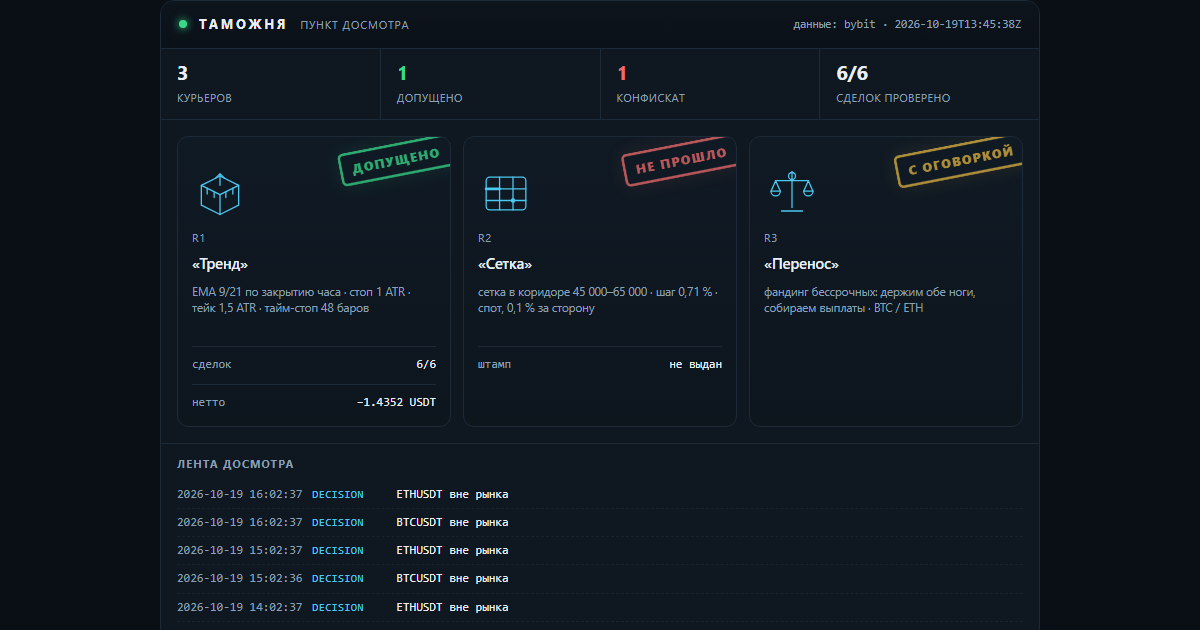
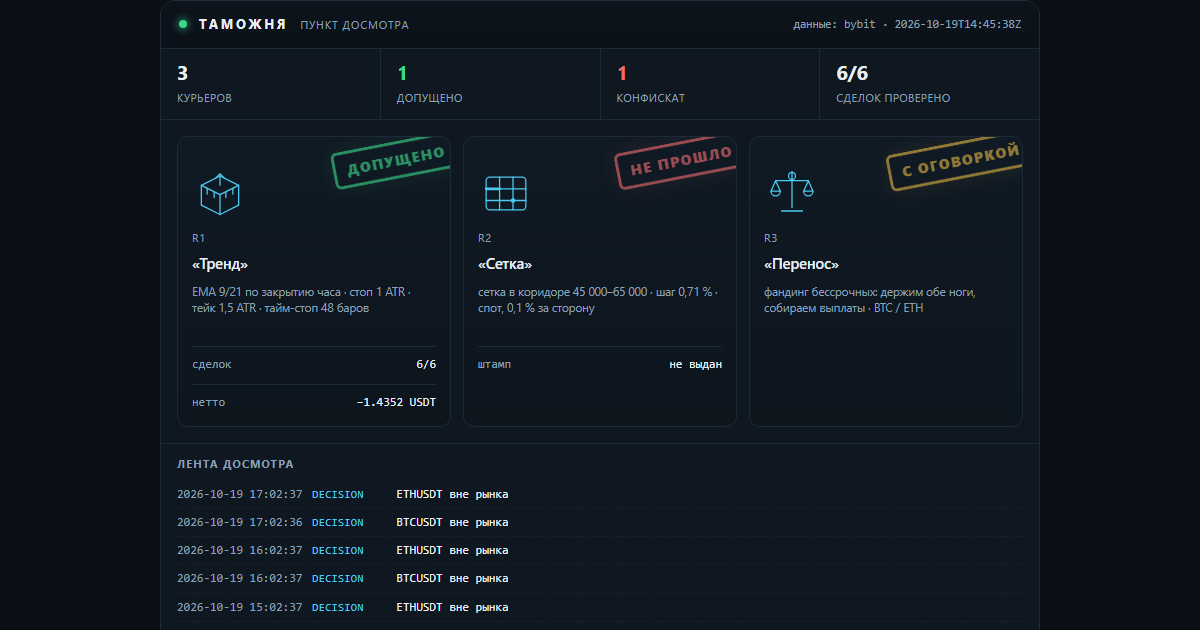
lab: таможня — свежие числа досмотра

Changed region(s): [[0.74, 0.2111, 0.8633, 0.3016], [0.4933, 0.2111, 0.6167, 0.3016], [0.2775, 0.2111, 0.37, 0.3016]]

diff --git a/docs/customs.html b/docs/customs.html
@@ -16,7 +16,7 @@
   <h1><a href="index.html">Gramwright Lab</a></h1>
   <p>Журнал проверки торговых гипотез: что проверяли, что вышло по факту, сколько съели издержки. Числа берутся из журнала стенда. Не инвестиционная рекомендация.</p>
 </header>
-<h1>Таможня</h1><p class="intro">Пункт досмотра заявленных результатов. Стратегии приезжают с грузом обещаний, и каждая проходит проверку по публичным данным биржи: цены существуют, комиссии по тарифу, нетто сходится. Что прошло — получает штамп. Что не прошло — в конфискат, с причиной. Штамп означает «записи подлинные», а не «стратегия прибыльна».</p><p><img src="img/customs.png" alt="Терминал досмотра: три курьера, штампы, лента событий" style="width:100%;height:auto;border:1px solid var(--line);border-radius:10px"></p><p class="c-note">Сверху — тот же терминал, что собирается из журналов: счётчики, эмблемы курьеров, штампы и лента последних событий. Ниже — то же самое текстом, чтобы читалось с телефона и индексировалось поиском.</p><article><h2>R1 «Тренд» <span class="verdict">— <span class="c-ok">допущено</span></span></h2><p><strong>Правило:</strong> EMA 9/21 по закрытию часа · стоп 1 ATR · тейк 1,5 ATR · тайм-стоп 48 баров</p><p><strong>Декларация:</strong> Заявлено до прогона: держать 30 сделок, лимит нотионала 10 % от счёта, стоп дня −1 %. Прибыль не заявлялась — это важно: курьер не обещал доход.</p><p><strong>Проверено по публичным свечам, без ключей:</strong> 6 из 6 сделок. Сумма нетто −1.4352 USDT.</p><ul class="c-chk"><li class="y">BTCUSDT: нетто −0.8746 USDT · комиссии 0.0901 · проверено · с поправкой</li><li class="y">BTCUSDT: нетто −0.5441 USDT · комиссии 0.0896 · проверено</li><li class="y">ETHUSDT: нетто −0.2253 USDT · комиссии 0.0266 · проверено</li><li class="y">ETHUSDT: нетто −0.1513 USDT · комиссии 0.0265 · проверено</li><li class="y">ETHUSDT: нетто +0.1984 USDT · комиссии 0.0262 · проверено</li><li class="y">ETHUSDT: нетто +0.1617 USDT · комиссии 0.0260 · проверено</li></ul><p class="tags">журнал sha256 cd0961a6c8a0f4fb… · проверяльщик verify-1</p><p class="c-note">Штамп означает: записи подлинные, а не что стратегия прибыльна. Курьер в минусе, и минус тоже стоит на штампе — иначе это была бы не проверка, а реклама.</p><p class="tags">источник: verify-report.json</p></article><article><h2>R2 «Сетка» <span class="verdict">— <span class="c-bad">не прошло</span></span></h2><p><strong>Правило:</strong> сетка в коридоре 45 000–65 000 · шаг 0,71 % · спот, 0,1 % за сторону</p><p><strong>Декларация:</strong> Заявлено: «44 % урожая уходит бирже в виде комиссий». Кроме того — перевес над простым владением монетой.</p><p><strong>Что сошлось:</strong></p><ul class="c-chk"><li class="y">сами числа пересчитаны и воспроизводятся: коридор 45–65k был активен 23 % всей истории и 28 % последних двух лет</li></ul><p><strong>Что не сошлось:</strong></p><ul class="c-chk"><li class="n">44 % не подтвердилось: при шаге 0,71 % и тарифе 0,1 % комиссия съедает 28,3 % шага. Чтобы получить 44 %, нужен шаг 0,45 % — это около 80 уровней, а не 50</li><li class="n">от урожая доля комиссий 85,5 % за всю историю и 49,6 % за последние два года — тоже не 44 %</li><li class="n">перевес над владением посчитан на тарифе 0,055 %: при нём +1,32 п. п., на розничном 0,1 % — −0,72 п. п. То есть перевес исчезает</li><li class="n">семилетний тест стартовал в сентябре 2019 при биткоине около 10 000 — ниже коридора. Он говорит, что фиксированный коридор не подходит для периода, а не что сетка отстаёт</li></ul><p class="tags">источник: lab_grid.py, пересчёт 17.10.2026</p></article><article><h2>R3 «Перенос» <span class="verdict">— <span class="c-warn">с оговоркой</span></span></h2><p><strong>Правило:</strong> фандинг бессрочных: держим обе ноги, собираем выплаты · BTC / ETH</p><p><strong>Декларация:</strong> Заявлено: около 11,9 % в год от выплат фандинга при просадке выплатной кривой меньше 2 %.</p><p><strong>Что сошлось:</strong></p><ul class="c-chk"><li class="y">выплаты взяты из публичной истории биржи, ключей не нужно: BTC — 7 190 выплат с 25.03.2020, ETH — 6 561 с 21.10.2020</li><li class="y">сумма сходится: +83,4 % и +83,2 % за 6,6 и 6,0 года — те самые ~11,9 % в год</li><li class="y">худшая просадка выплатной кривой: −1,65 % и −1,97 %</li></ul><p><strong>Что не сошлось:</strong></p><ul class="c-chk"><li class="n">оговорка 1: премию сжали — 2021 год дал +38,3 %, 2026 — +1,96 %. Прошлое не повторяется</li><li class="n">оговорка 2: вход-выход стоит около 0,31 %, капитала нужно 1,2 от нотионала, текущий базис −0,082 % против входа</li><li class="n">оговорка 3: риск площадки. История FTX в этой же таблице выглядела так же прилично</li></ul><p class="tags">источник: публичная история фандинга Bybit, замер 17.10.2026</p></article><div class="c-conf"><h3>Конфискат</h3><p><strong>«Сетка»: заявленные 44 % комиссий не подтвердились.</strong> Досмотр показал 28,3 % от шага и 85,5 % от урожая — цифра хуже заявленной по форме, но лучше по смыслу: сетку убивает не размер шага, а то, что урожай почти весь уходит в комиссии. Это и вышло в выпуск — с поправкой, а не с красивой цифрой.</p></div><p class="c-note">Пломба: <code>2026-10-19T13:45:38Z</code> · нотариус FreeTSA · Oct 19 13:45:38 2026 GMT · подпись подтверждена. Манифест скрепляет отчёт проверки, журнал сделок и декларации курьеров: подменишь любую цифру — пломба перестанет сходиться.</p><p class="c-note">Досмотр идёт по публичным минутным свечам и публичной истории фандинга — ключей у проверяющего нет, и он может повторить проверку сам.</p><p class="c-note">Контент образовательный, не является инвестиционной рекомендацией. Торговля связана с риском потери капитала.</p>
+<h1>Таможня</h1><p class="intro">Пункт досмотра заявленных результатов. Стратегии приезжают с грузом обещаний, и каждая проходит проверку по публичным данным биржи: цены существуют, комиссии по тарифу, нетто сходится. Что прошло — получает штамп. Что не прошло — в конфискат, с причиной. Штамп означает «записи подлинные», а не «стратегия прибыльна».</p><p><img src="img/customs.png" alt="Терминал досмотра: три курьера, штампы, лента событий" style="width:100%;height:auto;border:1px solid var(--line);border-radius:10px"></p><p class="c-note">Сверху — тот же терминал, что собирается из журналов: счётчики, эмблемы курьеров, штампы и лента последних событий. Ниже — то же самое текстом, чтобы читалось с телефона и индексировалось поиском.</p><article><h2>R1 «Тренд» <span class="verdict">— <span class="c-ok">допущено</span></span></h2><p><strong>Правило:</strong> EMA 9/21 по закрытию часа · стоп 1 ATR · тейк 1,5 ATR · тайм-стоп 48 баров</p><p><strong>Декларация:</strong> Заявлено до прогона: держать 30 сделок, лимит нотионала 10 % от счёта, стоп дня −1 %. Прибыль не заявлялась — это важно: курьер не обещал доход.</p><p><strong>Проверено по публичным свечам, без ключей:</strong> 6 из 6 сделок. Сумма нетто −1.4352 USDT.</p><ul class="c-chk"><li class="y">BTCUSDT: нетто −0.8746 USDT · комиссии 0.0901 · проверено · с поправкой</li><li class="y">BTCUSDT: нетто −0.5441 USDT · комиссии 0.0896 · проверено</li><li class="y">ETHUSDT: нетто −0.2253 USDT · комиссии 0.0266 · проверено</li><li class="y">ETHUSDT: нетто −0.1513 USDT · комиссии 0.0265 · проверено</li><li class="y">ETHUSDT: нетто +0.1984 USDT · комиссии 0.0262 · проверено</li><li class="y">ETHUSDT: нетто +0.1617 USDT · комиссии 0.0260 · проверено</li></ul><p class="tags">журнал sha256 2237c1f58b8b30c3… · проверяльщик verify-1</p><p class="c-note">Штамп означает: записи подлинные, а не что стратегия прибыльна. Курьер в минусе, и минус тоже стоит на штампе — иначе это была бы не проверка, а реклама.</p><p class="tags">источник: verify-report.json</p></article><article><h2>R2 «Сетка» <span class="verdict">— <span class="c-bad">не прошло</span></span></h2><p><strong>Правило:</strong> сетка в коридоре 45 000–65 000 · шаг 0,71 % · спот, 0,1 % за сторону</p><p><strong>Декларация:</strong> Заявлено: «44 % урожая уходит бирже в виде комиссий». Кроме того — перевес над простым владением монетой.</p><p><strong>Что сошлось:</strong></p><ul class="c-chk"><li class="y">сами числа пересчитаны и воспроизводятся: коридор 45–65k был активен 23 % всей истории и 28 % последних двух лет</li></ul><p><strong>Что не сошлось:</strong></p><ul class="c-chk"><li class="n">44 % не подтвердилось: при шаге 0,71 % и тарифе 0,1 % комиссия съедает 28,3 % шага. Чтобы получить 44 %, нужен шаг 0,45 % — это около 80 уровней, а не 50</li><li class="n">от урожая доля комиссий 85,5 % за всю историю и 49,6 % за последние два года — тоже не 44 %</li><li class="n">перевес над владением посчитан на тарифе 0,055 %: при нём +1,32 п. п., на розничном 0,1 % — −0,72 п. п. То есть перевес исчезает</li><li class="n">семилетний тест стартовал в сентябре 2019 при биткоине около 10 000 — ниже коридора. Он говорит, что фиксированный коридор не подходит для периода, а не что сетка отстаёт</li></ul><p class="tags">источник: lab_grid.py, пересчёт 17.10.2026</p></article><article><h2>R3 «Перенос» <span class="verdict">— <span class="c-warn">с оговоркой</span></span></h2><p><strong>Правило:</strong> фандинг бессрочных: держим обе ноги, собираем выплаты · BTC / ETH</p><p><strong>Декларация:</strong> Заявлено: около 11,9 % в год от выплат фандинга при просадке выплатной кривой меньше 2 %.</p><p><strong>Что сошлось:</strong></p><ul class="c-chk"><li class="y">выплаты взяты из публичной истории биржи, ключей не нужно: BTC — 7 190 выплат с 25.03.2020, ETH — 6 561 с 21.10.2020</li><li class="y">сумма сходится: +83,4 % и +83,2 % за 6,6 и 6,0 года — те самые ~11,9 % в год</li><li class="y">худшая просадка выплатной кривой: −1,65 % и −1,97 %</li></ul><p><strong>Что не сошлось:</strong></p><ul class="c-chk"><li class="n">оговорка 1: премию сжали — 2021 год дал +38,3 %, 2026 — +1,96 %. Прошлое не повторяется</li><li class="n">оговорка 2: вход-выход стоит около 0,31 %, капитала нужно 1,2 от нотионала, текущий базис −0,082 % против входа</li><li class="n">оговорка 3: риск площадки. История FTX в этой же таблице выглядела так же прилично</li></ul><p class="tags">источник: публичная история фандинга Bybit, замер 17.10.2026</p></article><div class="c-conf"><h3>Конфискат</h3><p><strong>«Сетка»: заявленные 44 % комиссий не подтвердились.</strong> Досмотр показал 28,3 % от шага и 85,5 % от урожая — цифра хуже заявленной по форме, но лучше по смыслу: сетку убивает не размер шага, а то, что урожай почти весь уходит в комиссии. Это и вышло в выпуск — с поправкой, а не с красивой цифрой.</p></div><p class="c-note">Пломба: <code>2026-10-19T14:45:38Z</code> · нотариус FreeTSA · Oct 19 14:45:38 2026 GMT · подпись подтверждена. Манифест скрепляет отчёт проверки, журнал сделок и декларации курьеров: подменишь любую цифру — пломба перестанет сходиться.</p><p class="c-note">Досмотр идёт по публичным минутным свечам и публичной истории фандинга — ключей у проверяющего нет, и он может повторить проверку сам.</p><p class="c-note">Контент образовательный, не является инвестиционной рекомендацией. Торговля связана с риском потери капитала.</p>
 <footer class="site">
   Код стенда и аудитора: <a href="https://github.com/XSlaidx/truth-engine">XSlaidx/truth-engine</a>
   &middot; <a href="graveyard.html">кладбище правил</a>
